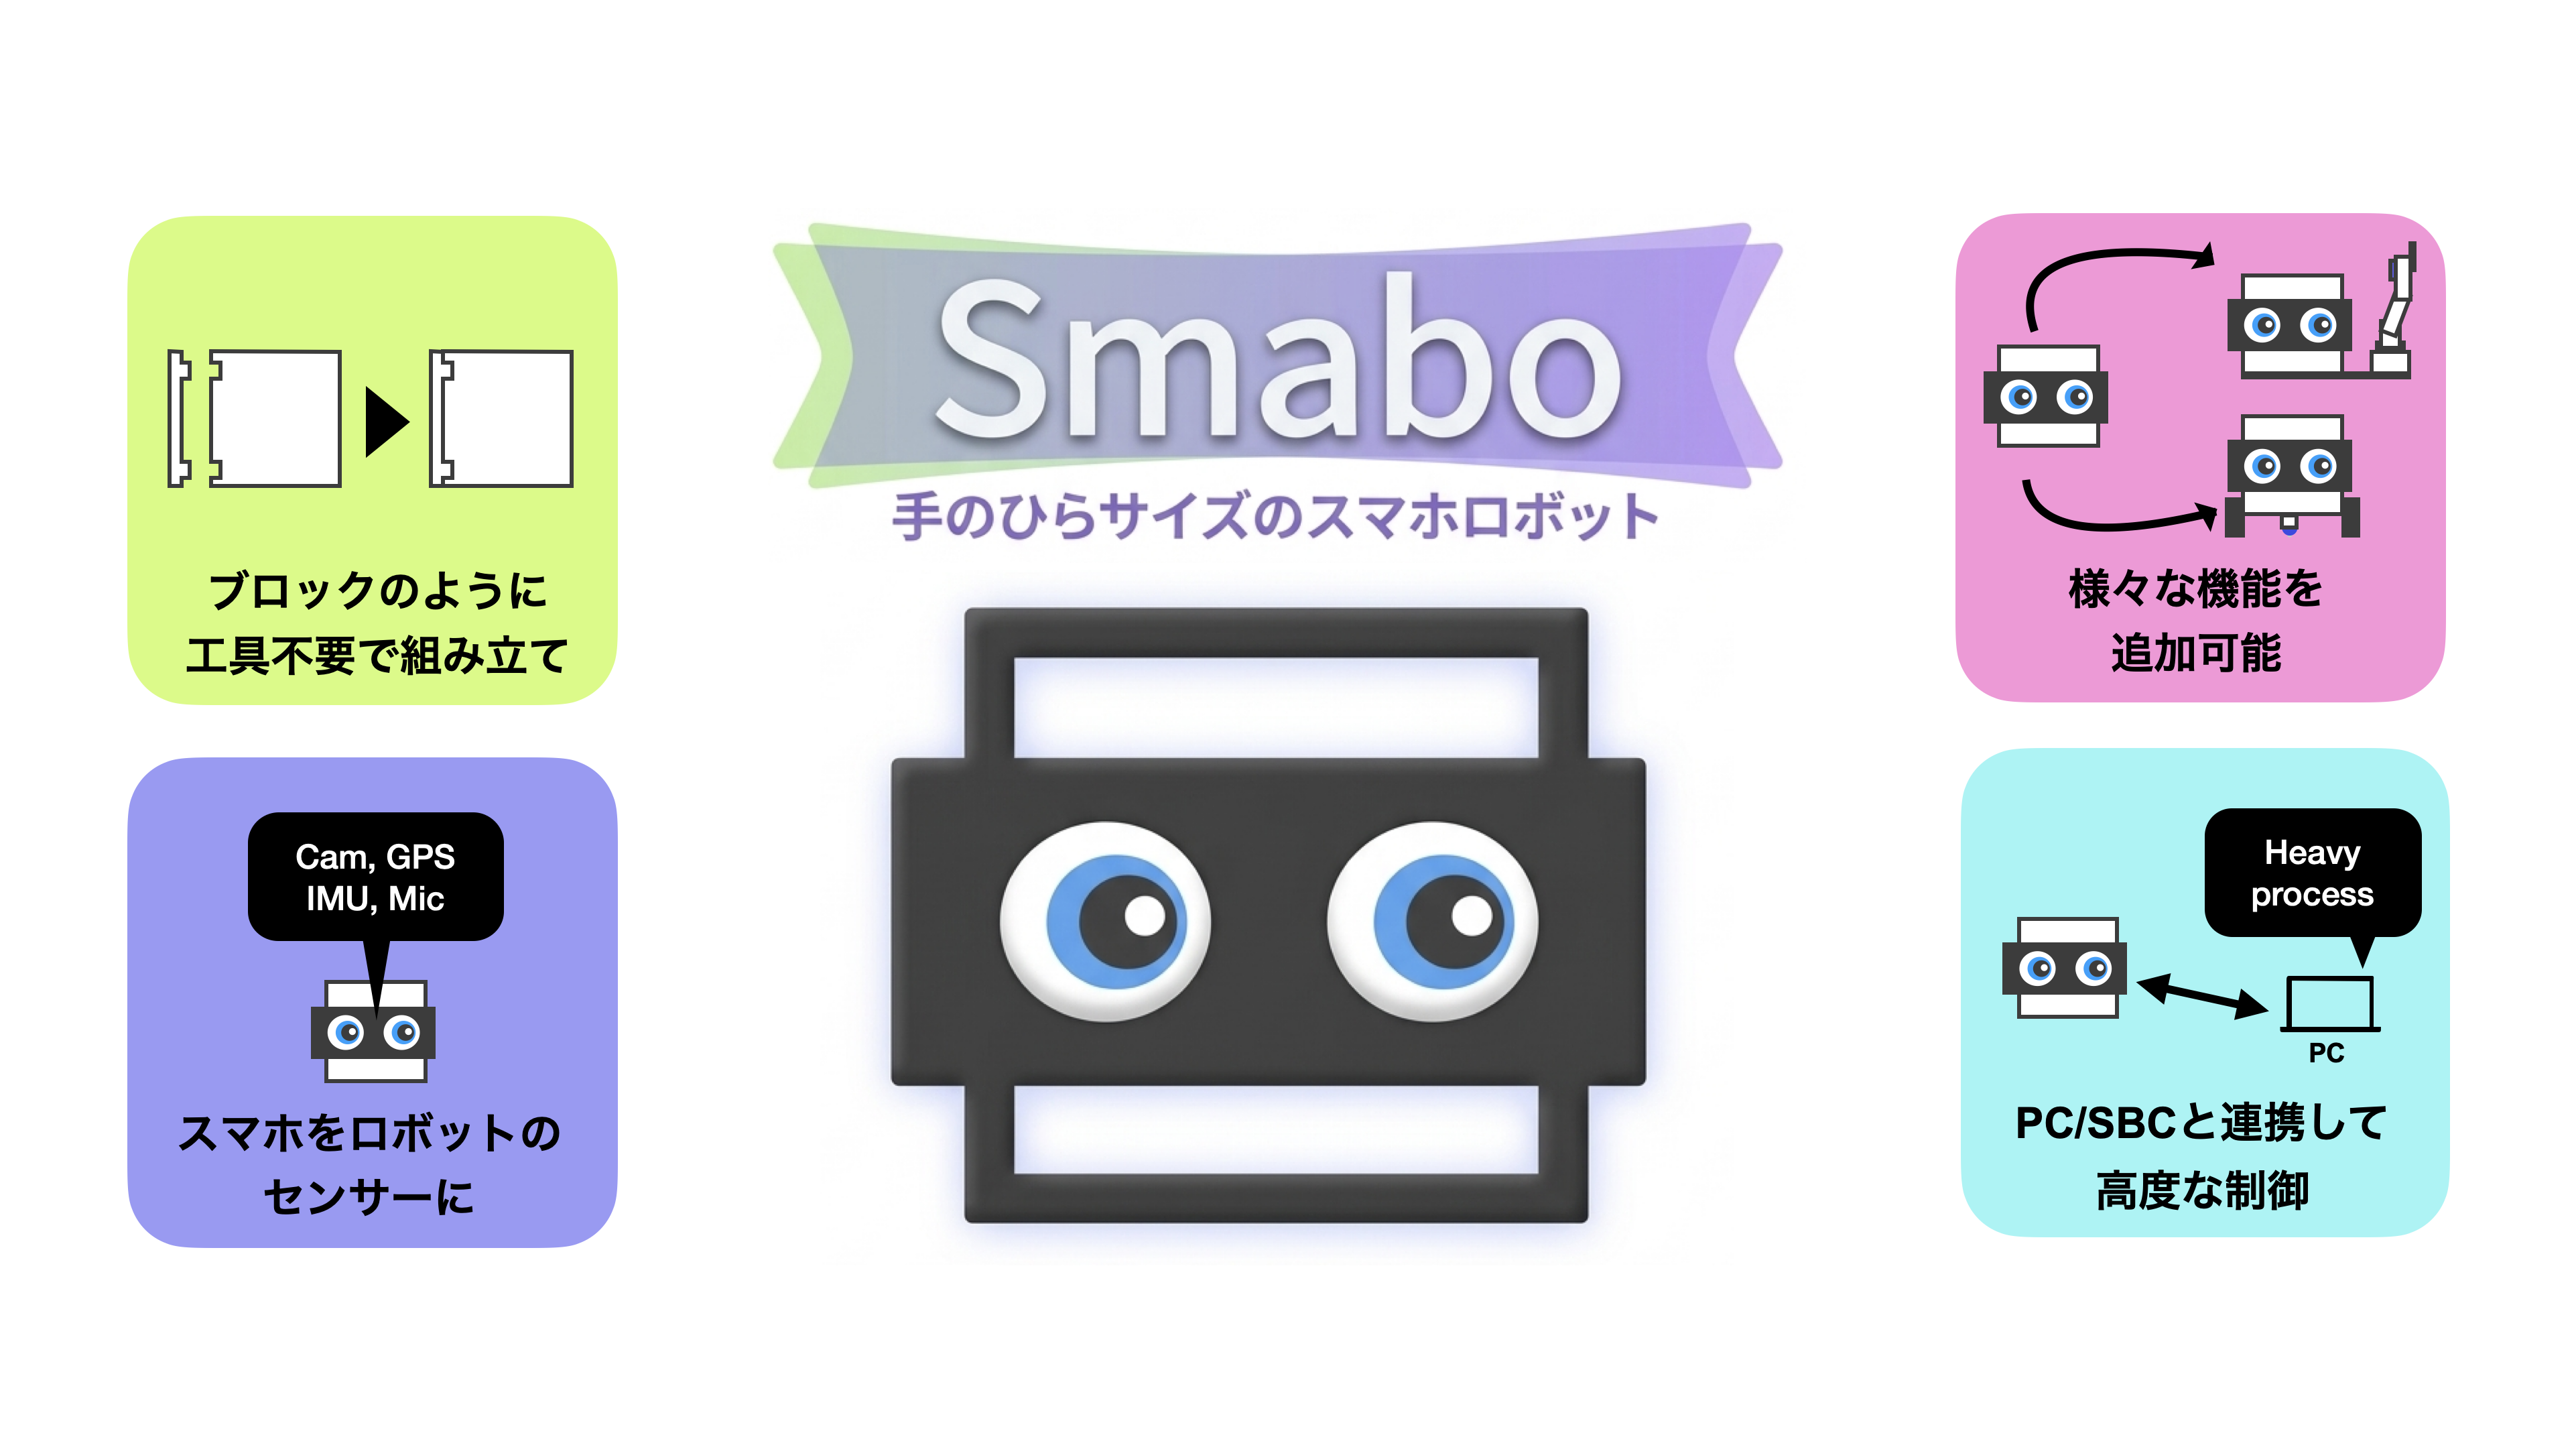
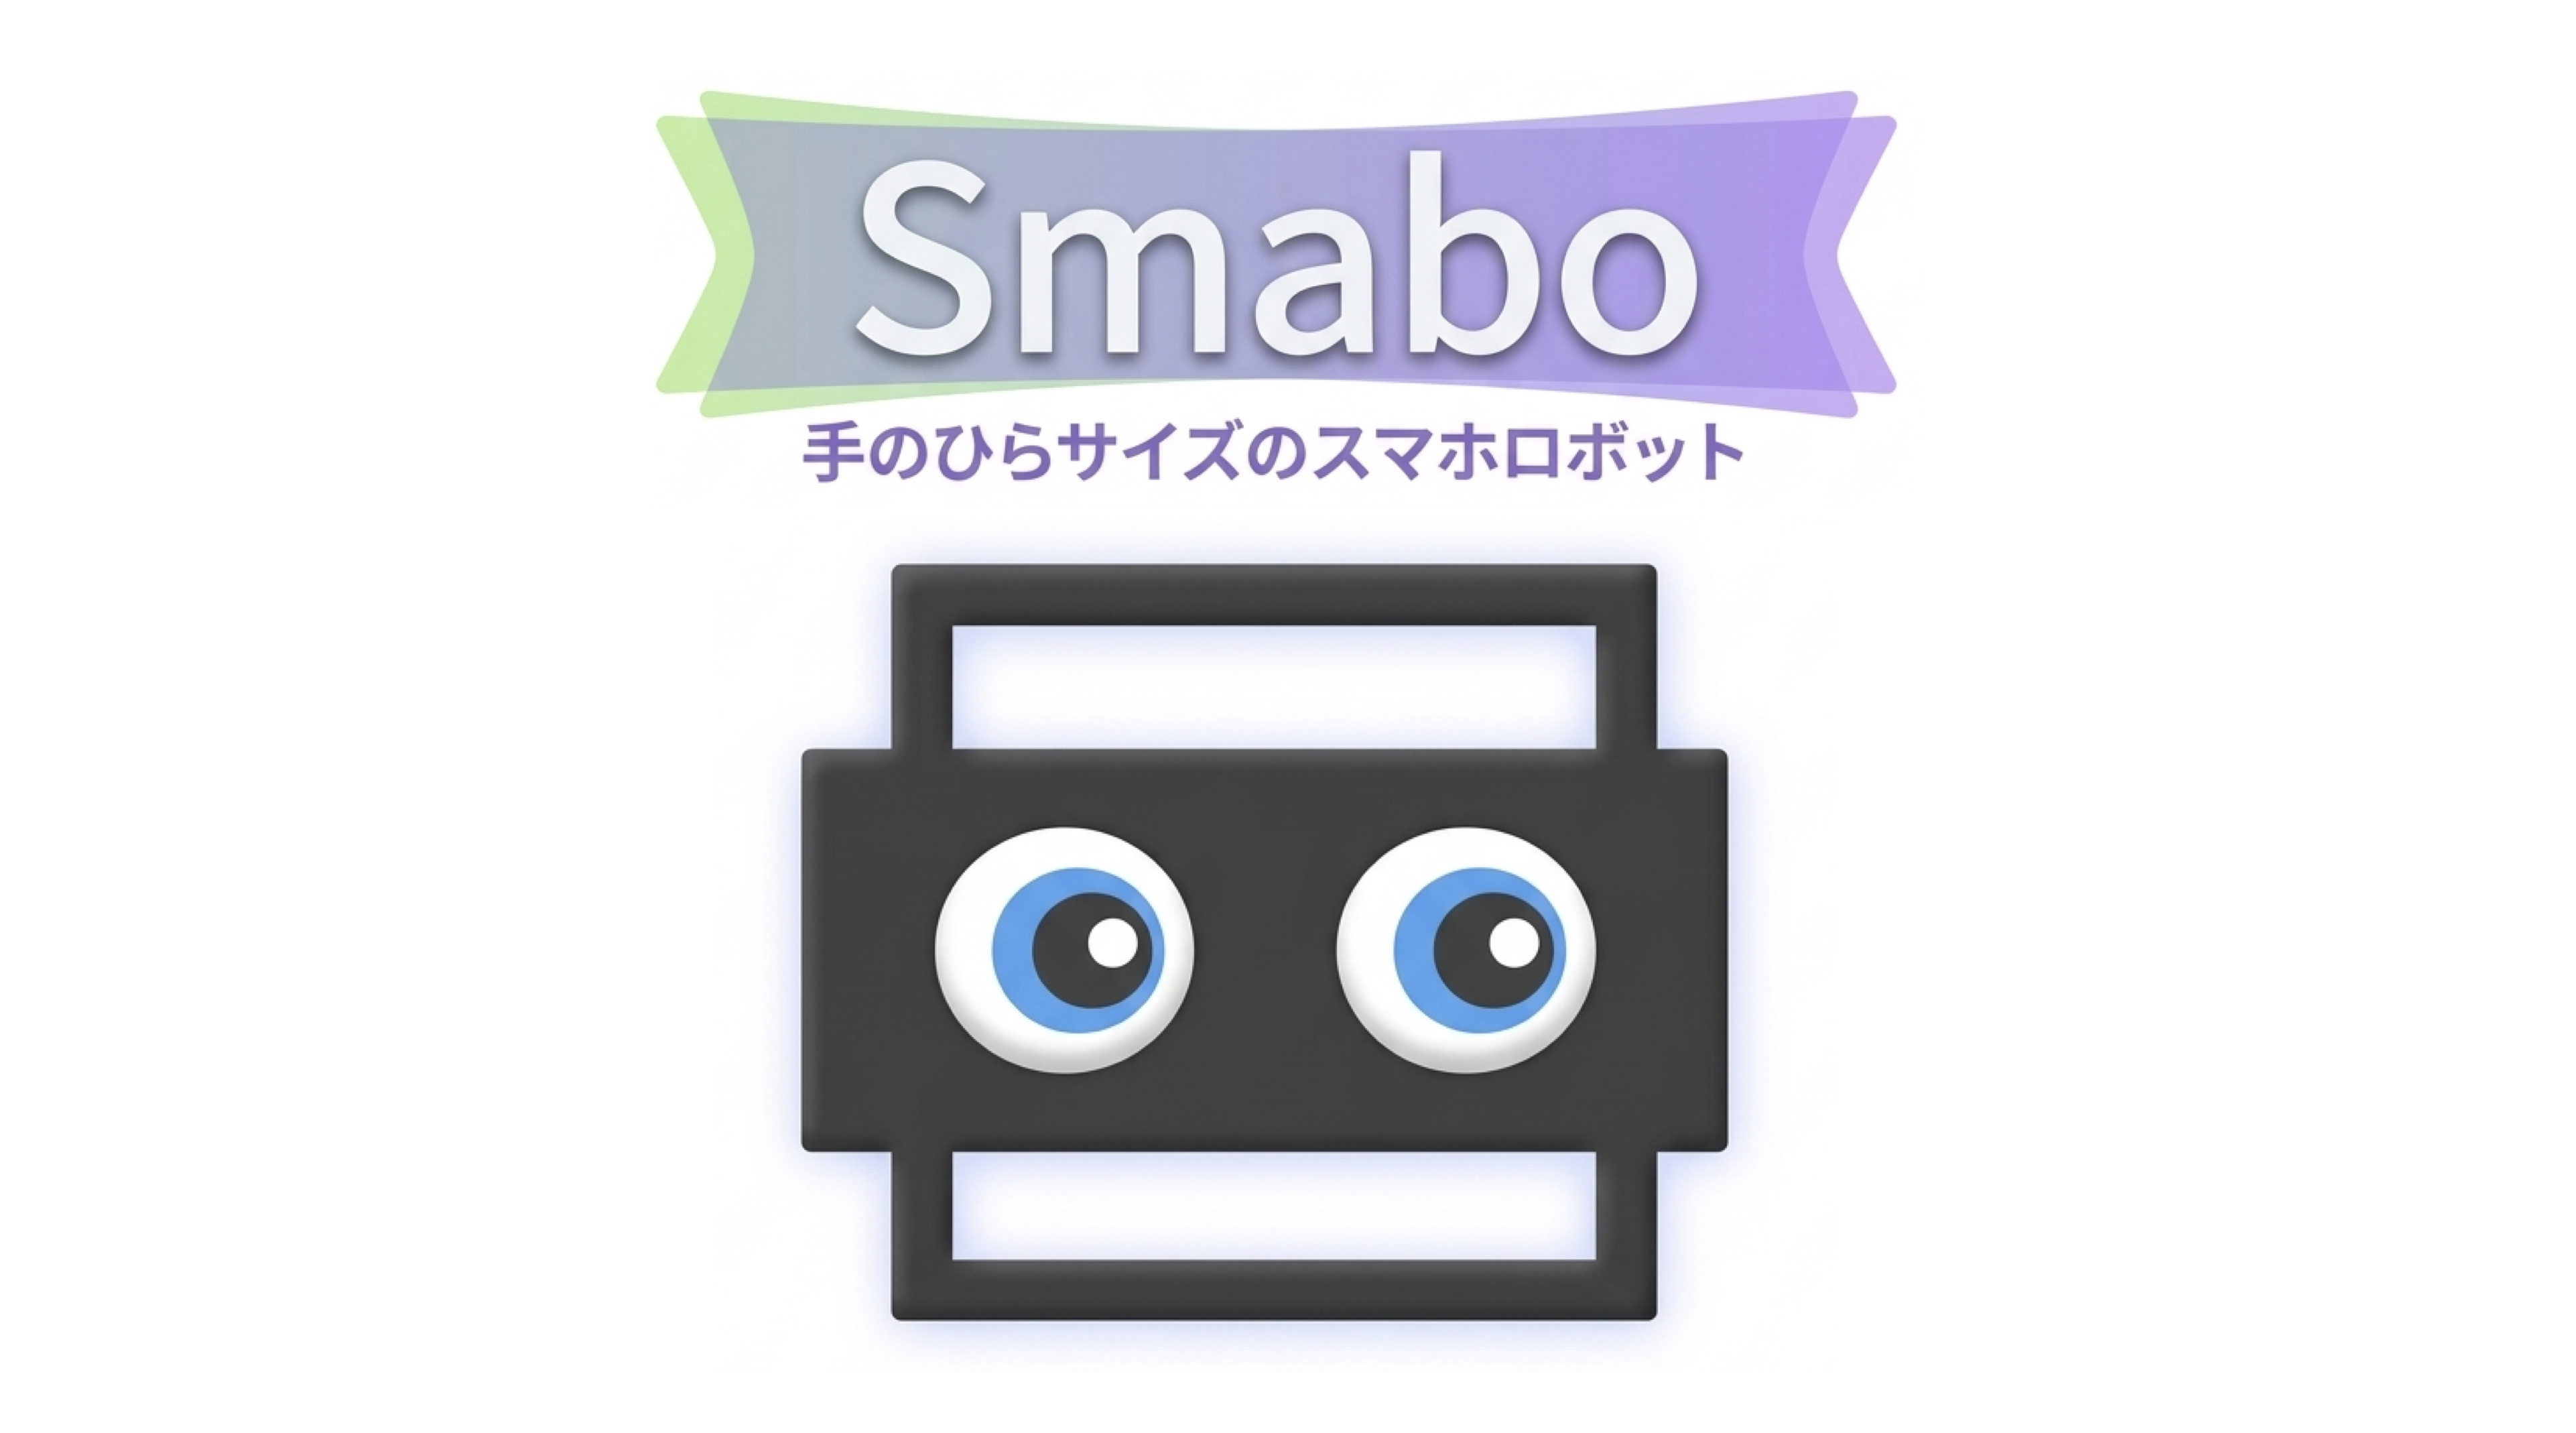
update top page

diff --git a/docs/index.html b/docs/index.html
@@ -38,14 +38,31 @@
     <div class="container" style="padding-block:0px">
         <article class="doc-content" style="max-width:none">
 
-<p>smaboは工具不要で組み立て可能なスマホ搭載ロボットです。</h1>
+<div style="text-align: center;">
+  <p>工具不要で組み立て可能な<br>スマホ搭載ロボットです</p>
+</div>
 
-<h2 id="ロードマップ">ロードマップ<a class="headerlink" href="#ロードマップ" title="Permanent link">#</a></h2>
-<p>各ブロックから、詳細ページにジャンプできます</p>
+<div style="text-align: center;">
+  <h1><br>できること</h1>
+  初学者向けの<br>
+  様々な機能がそろっています
+  <img src="images/smabo_usage.png" alt="smabo" />
+
+</div>
+
+
+<div style="text-align: center;">
+  <h1><br>つくりかた</h1>
+  ロードマップを使って<br>smaboを少しずつ作っていきましょう
+  <br>※ 各ブロックを選択すると、詳細ページにジャンプできます
+
+</div>
+
+
 <div class="rmap-wrap">
   <!-- data-guide-dir="guides/" : guide pages at /guides/{id}.html -->
   <!-- data-design-dir="architecture/" : design pages at /architecture/{id}.html -->
-  <svg id="rmap-svg" class="rmap-svg" viewBox="240 -28 920 1150" role="img"
+  <svg id="rmap-svg" class="rmap-svg" viewBox="220 -28 920 1150" role="img"
        data-guide-dir="guides/" data-design-dir="architecture/"
        aria-label="smabo 製作ガイドのロードマップ図"></svg>
 </div>

diff --git a/docs/index.md b/docs/index.md
@@ -11,13 +11,21 @@
 
 ![](./images/hero_jp.png)
 
+工具不要で組み立て可能な<br>スマホ搭載ロボットです
 
-smaboは工具不要で組み立て可能なスマホ搭載ロボットです。
+
+# できること
+
+初学者向けの<br>
+様々な機能がそろっています
+
+![](./images/smabo_usage.png)
 
 
-# ロードマップ
+# つくりかた
 
-各ブロックから、詳細ページにジャンプできます。
+ロードマップを使って<br>smaboを少しずつ作っていきましょう
+<br>※ 各ブロックを選択すると、詳細ページにジャンプできます
 
 <!--
 下図の構成を参考にインタラクティブな図をここにおいてください（下記のsvgファイルそのものはhtmlには出力しない）。